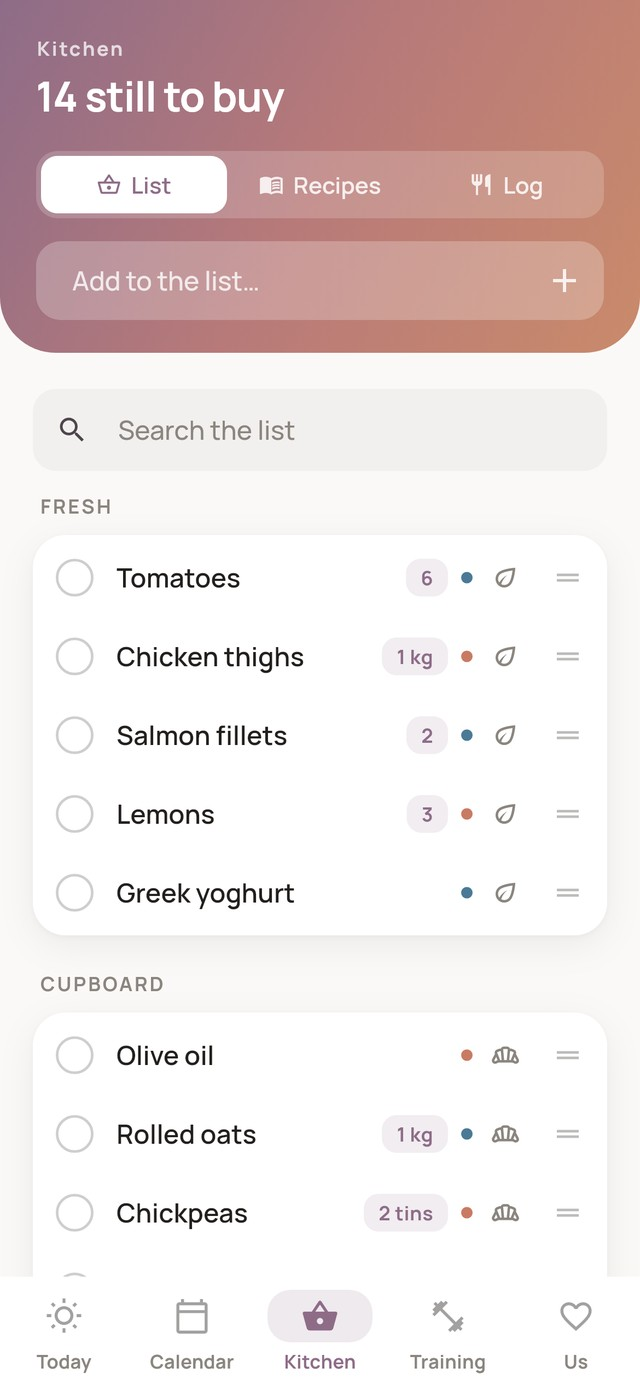
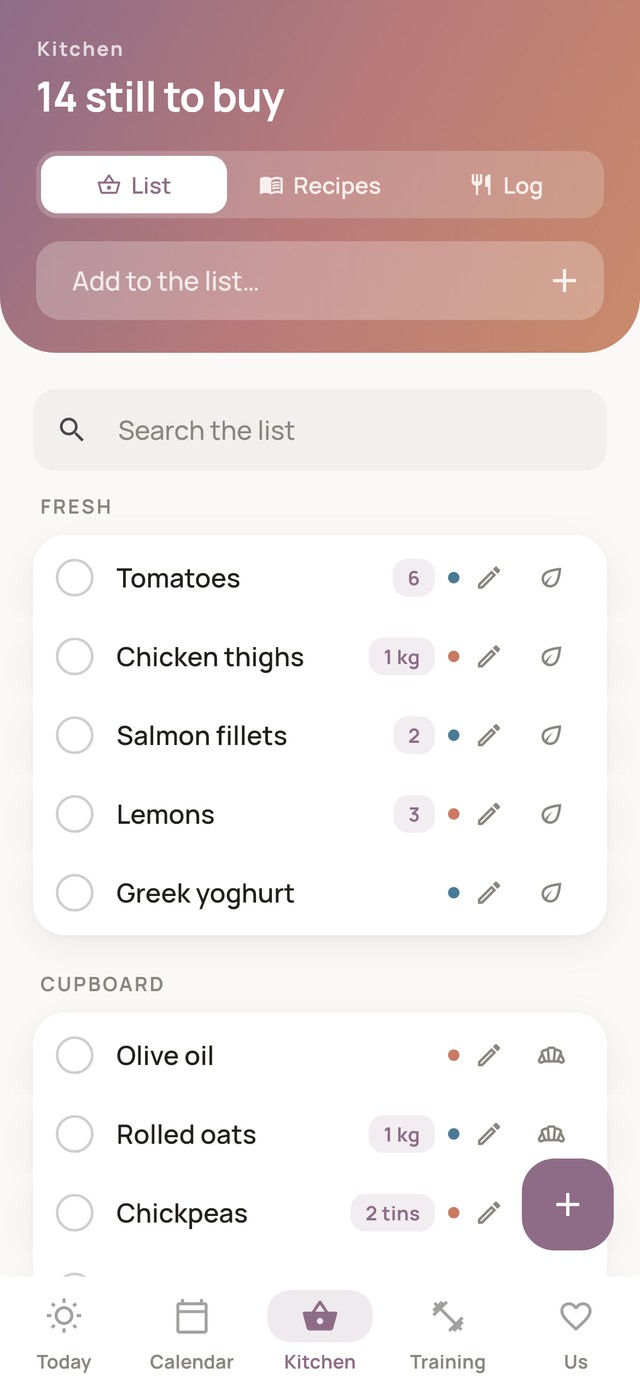
What's new, in Portuguese too
Both pages are now written by tool/whats_new.py in the app repo, from
CHANGELOG.md and CHANGELOG.pt.md, and the build pushes them here itself.
The seven Portuguese pages point at their own copy instead of the English
one, the sitemap carries it with an hreflang pair, and the shopping
screenshot is redrawn for the plus button and the row pencils.

diff --git a/pt/whats-new.html b/pt/whats-new.html
@@ -1,0 +1,162 @@
+<!doctype html>
+<html lang="pt-PT">
+<head>
+<meta charset="utf-8">
+<meta name="viewport" content="width=device-width, initial-scale=1">
+<script>
+(function () {
+  try {
+    if (localStorage.getItem('clovie-lang') === 'en') {
+      location.replace('../whats-new.html' + location.search);
+    }
+  } catch (e) {}
+})();
+</script>
+<title>Clovie &middot; O que mudou</title>
+<meta name="description" content="Tudo o que mudou na Clovie, do mais recente para trás.">
+<link rel="icon" type="image/png" href="../img/icon.png">
+<link rel="apple-touch-icon" href="../img/icon.png">
+<meta name="theme-color" content="#faf9f7" media="(prefers-color-scheme: light)">
+<meta name="theme-color" content="#201d1a" media="(prefers-color-scheme: dark)">
+<link rel="canonical" href="https://clovie.eu/pt/whats-new.html">
+<link rel="alternate" hreflang="en" href="https://clovie.eu/whats-new.html">
+<link rel="alternate" hreflang="pt-pt" href="https://clovie.eu/pt/whats-new.html">
+<link rel="alternate" hreflang="x-default" href="https://clovie.eu/whats-new.html">
+<meta property="og:type" content="website">
+<meta property="og:url" content="https://clovie.eu/pt/whats-new.html">
+<meta property="og:title" content="Clovie &middot; O que mudou">
+<meta property="og:description" content="Tudo o que mudou na Clovie, do mais recente para trás.">
+<meta property="og:image" content="https://clovie.eu/img/og.png">
+<meta property="og:image:width" content="1200">
+<meta property="og:image:height" content="630">
+<meta name="twitter:card" content="summary_large_image">
+<meta name="twitter:title" content="Clovie &middot; O que mudou">
+<meta name="twitter:description" content="Tudo o que mudou na Clovie, do mais recente para trás.">
+<meta name="twitter:image" content="https://clovie.eu/img/og.png">
+<link rel="stylesheet" href="../style.css">
+</head>
+<body class="doc">
+<a class="skip" href="#main">Ir para o conteúdo</a>
+
+<header class="site-header">
+  <a class="wordmark" href="index.html"><img src="../img/icon.png" alt="" width="40" height="40">Clovie</a>
+  <nav aria-label="Site">
+    <a href="index.html#features">O que faz</a>
+    <a href="index.html#download">Instalar</a>
+    <a href="support.html">Ajuda</a>
+    <a href="../whats-new.html" onclick="try{localStorage.setItem('clovie-lang','en')}catch(e){}">EN</a>
+  </nav>
+</header>
+
+<main id="main">
+  <h1>O que mudou</h1>
+  <p class="subtitle">Tudo o que mudou, versão a versão, a mais recente
+  primeiro. A mais recente é a 1.0.6 (build 106). Escrito à medida que cada mudança
+  foi feita, por isso nada aqui é um palpite.</p>
+
+  <h2>1.0.6 · 15 de agosto de 2026</h2>
+  <ul>
+    <li><strong>Novo</strong>: A lista de compras passa a ter um botão mais, em baixo à direita, onde o ginásio, o calendário, as receitas, a balança e o registo de refeições já têm o deles. Leva a lista de volta ao início, até à caixa onde se escreve, e deixa lá o cursor.</li>
+    <li><strong>Novo</strong>: Cada linha da lista de compras tem um lápis. Uma letra trocada obrigava a deitar a linha fora e a escrevê-la outra vez.</li>
+    <li><strong>Novo</strong>: Limpar o que já foi comprado da lista pode ser desfeito. Diz quantas linhas saíram e oferece Anular durante seis segundos, e todas voltam marcadas, com o nome de quem as marcou.</li>
+    <li><strong>Novo</strong>: Uma refeição registada pode ser corrigida. Tocar na linha reabre a quantidade e a refeição, em vez de a apagar e escolher o alimento de novo.</li>
+    <li><strong>Novo</strong>: Um alimento guardado na lista da casa pode ser corrigido ou removido; o caminho para lá está agora ao lado do nome. Até aqui só lá chegava quem soubesse que faltava.</li>
+    <li><strong>Novo</strong>: Qual dos dois é este telemóvel pode ser mudado depois da configuração inicial, na página pessoal. Tocar no lado errado no início punha todos os treinos, refeições e compras à conta da outra pessoa, para sempre.</li>
+    <li><strong>Melhor</strong>: Todas as listas da app se reordenam da mesma maneira: manter o dedo numa linha e depois arrastá-la. As barrinhas de arrastar desapareceram da lista de compras e do editor de receitas, onde eram o único caminho e nada o dizia.</li>
+    <li><strong>Melhor</strong>: Uma coisa muda de corredor com o dedo. Mantém a linha premida e arrasta-a para baixo, passando o nome de um corredor; o sítio onde a largas decide o corredor e o lugar dentro dele.</li>
+    <li><strong>Melhor</strong>: Marcar uma coisa na lista de compras deixa-a na lista, riscada, em vez de a tirar de lá.</li>
+    <li><strong>Melhor</strong>: Já não há nada escondido atrás de manter o dedo numa linha. Uma rotina muda de nome pelo lápis ao lado, e uma mensagem é retirada com o mesmo deslizar que apaga uma linha em todo o resto da app.</li>
+    <li><strong>Melhor</strong>: O editor de exercícios e o de alimentos perguntam antes de deitar fora o que estava meio escrito, como a receita, a rotina e o evento já faziam.</li>
+    <li><strong>Melhor</strong>: O editor de receitas olha para o formulário inteiro, e não só para o título, os ingredientes e os passos. Uma descrição, os tempos, o número de pessoas e as etiquetas já não desaparecem sem uma palavra.</li>
+    <li><strong>Melhor</strong>: O que aí vem, no ecrã inicial, passa a dizer a que horas é, e uma viagem que parte às seis da tarde mostra a hora por baixo dos dias que ocupa.</li>
+    <li><strong>Melhor</strong>: Uma refeição marcada a partir de uma receita, e um evento copiado do calendário do próprio telemóvel, chegam com o mesmo lembrete que o formulário lhes teria posto.</li>
+    <li><strong>Corrigido</strong>: O ginásio diz porque é que uma série não foi guardada. Carregar em Adicionar com a caixa das repetições vazia não fazia nada e não dizia nada, e um peso que não fosse um número era guardado como uma série feita com a barra vazia.</li>
+    <li><strong>Corrigido</strong>: O lembrete de um evento de dia inteiro é lido tal como foi escolhido, "Manhã anterior" em vez de "15 horas antes".</li>
+    <li><strong>Corrigido</strong>: Procurar um alimento sem rede passa a dizer que não foi possível chegar à base de dados, em vez de dizer que não encontrou nada. O leitor de códigos de barras diz o mesmo.</li>
+  </ul>
+  <h2>1.0.5 · 12 e 13 de agosto de 2026</h2>
+  <ul>
+    <li><strong>Novo</strong>: Um calendário do telemóvel pode ser partilhado por inteiro. Em "Calendários do telemóvel", no separador Nós, cada calendário mostrado tem um segundo interruptor que põe os seus eventos no outro telemóvel, de trinta dias atrás a quatrocentos à frente, e desligá-lo leva-os de volta. Nunca se escreve nada no calendário do próprio telemóvel.</li>
+    <li><strong>Novo</strong>: Um evento do calendário do telemóvel pode ser copiado para o calendário partilhado com um toque, "Pôr no nosso calendário". Assim que a cópia existe o botão desliga-se, para que um segundo toque não duplique o plano.</li>
+    <li><strong>Melhor</strong>: Todas as mensagens de erro seguem agora a língua do telemóvel. Num telemóvel em português, "Could not save" passa a ler-se "Não deu para guardar. Tenta outra vez.", e o resto dos avisos fez a mesma viagem.</li>
+    <li><strong>Melhor</strong>: O botão Voltar faz o que o Android promete. Voltar leva primeiro ao Início e só sai da app a partir do Início, e o deslizar da margem mostra o ecrã de trás antes de confirmar.</li>
+    <li><strong>Melhor</strong>: Marcar um artigo na lista de compras, guardar uma série, terminar um deslizar que apaga e um novo recorde dão a pequena vibração habitual, respeitando a definição de vibração do próprio telemóvel.</li>
+    <li><strong>Melhor</strong>: O bloco às riscas de testes no separador Nós desapareceu; as ferramentas de dados de exemplo passam a existir só nas versões de desenvolvimento.</li>
+    <li><strong>Corrigido</strong>: Um evento criado no Google Calendar aparece assim que se volta à Clovie, em vez de esperar que a app seja reaberta.</li>
+    <li><strong>Corrigido</strong>: Desligar a permissão de notificações já não apaga os lembretes agendados. Ficam onde estavam, calados, e voltam a tocar quando a permissão voltar.</li>
+    <li><strong>Corrigido</strong>: As sugestões de "Costumas comprar" já não aprendem com os dados de exemplo; só o que vocês marcam ensina a lista.</li>
+    <li><strong>Corrigido</strong>: O registo de refeições deixado aberto durante a noite acorda no dia novo, em vez de ficar preso a ontem.</li>
+    <li><strong>Corrigido</strong>: Um código de emparelhamento que ficou velho corrige-se sozinho no momento em que o ecrã da conta o mostra.</li>
+    <li><strong>Corrigido</strong>: Nos tamanhos de letra maiores, o cartão do ciclo dobra a janela fértil que passa para o mês seguinte em vez de a cortar.</li>
+  </ul>
+  <h2>1.0.4 · 7 e 8 de agosto de 2026</h2>
+  <ul>
+    <li><strong>Novo</strong>: O teu melhor fica marcado com uma estrela, na tua cor: na melhor série de um exercício, na série que acabou de a bater, no dia de onde veio e no treino onde aconteceu.</li>
+    <li><strong>Novo</strong>: Um evento novo já vem com um lembrete, meia hora antes, ou às nove da manhã anterior se for de dia inteiro. Qualquer evento pode continuar a receber outro, ou nenhum.</li>
+    <li><strong>Novo</strong>: O separador Nós tem uma secção de Notificações: lembretes de eventos, as duas horas por omissão, o lembrete do período e o botão da permissão do Android. Cada interruptor ali pertence só àquele telemóvel.</li>
+    <li><strong>Novo</strong>: Quem regista um ciclo recebe um aviso discreto às oito da tarde do dia anterior ao período esperado, depois de três ciclos registados. É calculado no próprio telemóvel, por isso não sai nada de novo dele.</li>
+    <li><strong>Novo</strong>: As receitas podem ser filtradas pelo tempo que levam, menos de vinte minutos ou menos de quarenta e cinco, a partir dos tempos de preparação e de cozedura que já têm.</li>
+    <li><strong>Novo</strong>: Um dedo pousado no anel do ciclo lê-o dia a dia.</li>
+    <li><strong>Novo</strong>: Os pesos podem ser lidos em libras. É uma definição de cada telemóvel, por isso um de vocês pode ler libras enquanto o outro lê quilos.</li>
+    <li><strong>Melhor</strong>: Uma série fica guardada no momento em que se carrega em guardar, por isso sair, ficar sem bateria ou o Android fechar a app não custa nada. Alguém já perdeu um treino inteiro assim, e foi isso que começou tudo.</li>
+    <li><strong>Melhor</strong>: Começar um treino, corrigir um treino antigo e construir uma rotina, uma receita ou um evento são páginas inteiras agora, e sair com alguma coisa por acabar pergunta primeiro.</li>
+    <li><strong>Melhor</strong>: Adicionar um exercício começa pelos grupos musculares, com uma pesquisa que atravessa todos; cada exercício tem a sua página, que guarda uma série de cada vez, com o histórico e o gráfico ao lado.</li>
+    <li><strong>Melhor</strong>: Qualquer exercício pode ser renomeado a partir de um lápis visível, mantendo o histórico e o gráfico, e o nome novo aparece nos dois telemóveis.</li>
+    <li><strong>Melhor</strong>: Qualquer um de vocês pode registar um ciclo, ou os dois, ou nenhum. O ciclo do outro só se vê do teu lado, não se muda, e nunca aparece no teu ecrã inicial.</li>
+    <li><strong>Melhor</strong>: O tema, o destaque, as cores, a língua e os confettis passam a ser de cada telemóvel; só os nomes, as alcunhas, as cores e os pronomes que definem um para o outro é que são partilhados.</li>
+    <li><strong>Melhor</strong>: A lista de licenças passa a incluir a Manrope, a letra da app.</li>
+    <li><strong>Corrigido</strong>: Um período deixa de dizer "A acontecer" quando os seus dias acabam.</li>
+    <li><strong>Corrigido</strong>: O calendário e os lembretes usam sempre o teu próprio período, e nunca uma mistura dos dois.</li>
+    <li><strong>Corrigido</strong>: A lista de compras mostra tantas coisas como antes; uma linha mais alta tinha empurrado quatro de catorze artigos para fora do fundo do ecrã.</li>
+    <li><strong>Corrigido</strong>: A linha do lembrete de um evento de dia inteiro já não transborda; as escolhas leem-se "Manhã anterior" e "Noite anterior".</li>
+  </ul>
+  <h2>1.0.3 · 6 de agosto de 2026</h2>
+  <ul>
+    <li><strong>Novo</strong>: Os gráficos do peso, do exercício e do progresso podem ser tocados ou arrastados para ler o valor e a data exatos por trás de cada ponto.</li>
+    <li><strong>Melhor</strong>: Um código de convite passa a expirar ao fim de algum tempo, para que um código antigo partilhado por engano não possa ser usado muito mais tarde.</li>
+    <li><strong>Corrigido</strong>: A contagem de dias juntos já não desce abaixo de zero quando a data de início fica no futuro.</li>
+    <li><strong>Corrigido</strong>: Entrar numa casa já não pode pôr os dois do mesmo lado; é detetado e corrigido automaticamente.</li>
+    <li><strong>Corrigido</strong>: Os perfis e as preferências partilhadas sincronizam como deve ser entre telemóveis, em vez de a mudança de um apagar a do outro.</li>
+    <li><strong>Corrigido</strong>: Dois telemóveis em fusos horários diferentes já não podem discordar sobre qual de duas mudanças é a mais recente.</li>
+  </ul>
+  <h2>1.0.1 · 28 de julho a 1 de agosto de 2026</h2>
+  <ul>
+    <li><strong>Novo</strong>: A lista de compras dá sugestões enquanto se escreve, ordenadas pelo que já compraram, e ganha uma caixa de pesquisa assim que passa de seis artigos.</li>
+    <li><strong>Novo</strong>: Registar uma refeição passa a ter um botão de leitura que preenche o produto a partir do código de barras, e a pesquisa de alimentos procura no Open Food Facts além dos alimentos guardados por vocês.</li>
+    <li><strong>Novo</strong>: Um artigo da lista de compras pode ser arrastado dentro do seu corredor ou mudado de corredor com um toque longo, e a ordem fica.</li>
+    <li><strong>Novo</strong>: Um exercício próprio pode ser criado a partir do seletor, com o seu grupo muscular e equipamento; mudar-lhe o nome mais tarde mantém o histórico e os recordes.</li>
+    <li><strong>Novo</strong>: Os ingredientes, os passos e os exercícios reordenam-se arrastando as linhas, como a lista de compras já fazia.</li>
+    <li><strong>Novo</strong>: Cada pessoa escolhe como é tratada na app: ele, ela ou uma forma neutra.</li>
+    <li><strong>Novo</strong>: As contas podem ser eliminadas de vez em Conta partilhada, dentro de Nós, e há três cores de destaque novas e um tema Doce.</li>
+    <li><strong>Novo</strong>: Partilhar um convite envia um link a sério, que abre a Clovie no outro telemóvel já com o código preenchido.</li>
+    <li><strong>Novo</strong>: Há um jogo escondido algures na app, e julho ensinou-lhe som, velocidade e boas maneiras.</li>
+    <li><strong>Melhor</strong>: O ecrã do ginásio são cinco páginas, Progresso, Resumo, Rotinas, Histórico e Recordes, e o deslizar funciona a partir de qualquer ponto da página.</li>
+    <li><strong>Melhor</strong>: O registo do ciclo é pessoal de quem o faz. O ciclo do outro pode ser visto, não mudado, e se registas um ou não é perguntado uma vez no início e mudável na tua própria página.</li>
+    <li><strong>Melhor</strong>: Cada lado só pode mudar o seu próprio nome; as alcunhas continuam a poder ser mudadas por qualquer um dos telemóveis.</li>
+    <li><strong>Melhor</strong>: As cores, as etiquetas, os títulos das linhas e as setas alinham-se da mesma maneira no Treino, na Cozinha, no Hoje e na lista de compras.</li>
+    <li><strong>Melhor</strong>: O modo de cozinhar usa o número de pessoas para que a receita foi ajustada, e "Começar a cozinhar" fica logo por baixo desse controlo.</li>
+    <li><strong>Melhor</strong>: As mensagens novas ficam marcadas até a conversa ser aberta.</li>
+    <li><strong>Melhor</strong>: A pesquisa de exercícios encontra um nome com ou sem acento, em qualquer das duas línguas.</li>
+    <li><strong>Corrigido</strong>: Adicionar um artigo que já está na lista de compras passa a atualizar a linha existente em vez de a escrever duas vezes.</li>
+    <li><strong>Corrigido</strong>: O calendário sombreia um período em curso durante o tempo que os teus períodos costumam durar, e acerta-se sozinho com o dia de hoje depois da meia-noite.</li>
+    <li><strong>Corrigido</strong>: Os números dos dias no maior tamanho de letra já não ficam cortados, em nenhuma vista do calendário.</li>
+    <li><strong>Corrigido</strong>: Um período registado com uma data futura já não deita abaixo a janela de edição.</li>
+    <li><strong>Corrigido</strong>: Uma gravação interrompida por falta de rede volta a tentar sozinha, em segundo plano.</li>
+    <li><strong>Corrigido</strong>: As regras de quem pode mudar o que na casa partilhada ficaram mais apertadas. Para o uso normal não muda nada.</li>
+  </ul>
+</main>
+
+<footer class="site-footer">
+  <nav aria-label="Mais">
+    <a href="index.html">Início</a>
+    <a href="support.html">Ajuda</a>
+    <a href="whats-new.html">O que mudou</a>
+    <a href="privacy.html">Privacidade</a>
+    <a href="terms.html">Termos</a>
+    <a href="testers.html">Experimentar já</a>
+    <a href="../whats-new.html" onclick="try{localStorage.setItem('clovie-lang','en')}catch(e){}">EN</a>
+  </nav>
+  <p class="colophon">&copy; 2026 Clovie &middot; <a href="mailto:hello@clovie.eu">hello@clovie.eu</a></p>
+</footer>
+</body>
+</html>

diff --git a/whats-new.html b/whats-new.html
@@ -3,6 +3,16 @@
 <head>
 <meta charset="utf-8">
 <meta name="viewport" content="width=device-width, initial-scale=1">
+<script>
+(function () {
+  try {
+    if (localStorage.getItem('clovie-lang') !== 'en' &&
+        /^pt\b/i.test(navigator.language || '')) {
+      location.replace('pt/whats-new.html' + location.search);
+    }
+  } catch (e) {}
+})();
+</script>
 <title>Clovie &middot; What's new</title>
 <meta name="description" content="Everything that changed in Clovie, newest first.">
 <link rel="icon" type="image/png" href="img/icon.png">
@@ -10,6 +20,9 @@
 <meta name="theme-color" content="#faf9f7" media="(prefers-color-scheme: light)">
 <meta name="theme-color" content="#201d1a" media="(prefers-color-scheme: dark)">
 <link rel="canonical" href="https://clovie.eu/whats-new.html">
+<link rel="alternate" hreflang="en" href="https://clovie.eu/whats-new.html">
+<link rel="alternate" hreflang="pt-pt" href="https://clovie.eu/pt/whats-new.html">
+<link rel="alternate" hreflang="x-default" href="https://clovie.eu/whats-new.html">
 <meta property="og:type" content="website">
 <meta property="og:url" content="https://clovie.eu/whats-new.html">
 <meta property="og:title" content="Clovie &middot; What's new">
@@ -32,7 +45,7 @@
     <a href="index.html#features">What it does</a>
     <a href="index.html#download">Get it</a>
     <a href="support.html">Help</a>
-    <a href="pt/index.html" onclick="try{localStorage.setItem('clovie-lang','pt')}catch(e){}">PT</a>
+    <a href="pt/whats-new.html" onclick="try{localStorage.setItem('clovie-lang','pt')}catch(e){}">PT</a>
   </nav>
 </header>
 
@@ -40,7 +53,7 @@
   <h1>What's new</h1>
   <p class="subtitle">Everything that changed, version by version, newest
   first. The newest build is 1.0.6 (build 105). Written as each change was made, so
-  nothing here is a guess, and only in English for now.</p>
+  nothing here is a guess.</p>
 
   <h2>1.0.6 · 15 August 2026</h2>
   <ul>
@@ -142,7 +155,7 @@
     <a href="privacy.html">Privacy</a>
     <a href="terms.html">Terms</a>
     <a href="testers.html">Try it early</a>
-    <a href="pt/index.html" onclick="try{localStorage.setItem('clovie-lang','pt')}catch(e){}">PT</a>
+    <a href="pt/whats-new.html" onclick="try{localStorage.setItem('clovie-lang','pt')}catch(e){}">PT</a>
   </nav>
   <p class="colophon">&copy; 2026 Clovie &middot; <a href="mailto:hello@clovie.eu">hello@clovie.eu</a></p>
 </footer>

diff --git a/pt/index.html b/pt/index.html
@@ -162,7 +162,7 @@
     <h2>Instalar o Clovie</h2>
     <p>O Clovie está na Play Store em acesso antecipado. Só Android, para já.</p>
     <a class="btn" href="testers.html">Experimentar já</a>
-    <p class="cta-note">Três passos, uns dois minutos. <a href="../whats-new.html">O que traz</a>, em inglês.</p>
+    <p class="cta-note">Três passos, uns dois minutos. <a href="whats-new.html">O que traz</a>.</p>
   </section>
 
 </main>
@@ -171,7 +171,7 @@
   <nav aria-label="Mais">
     <a href="index.html">Início</a>
     <a href="support.html">Ajuda</a>
-    <a href="../whats-new.html">O que mudou</a>
+    <a href="whats-new.html">O que mudou</a>
     <a href="privacy.html">Privacidade</a>
     <a href="terms.html">Termos</a>
     <a href="testers.html">Experimentar já</a>

diff --git a/pt/terms.html b/pt/terms.html
@@ -110,7 +110,7 @@
   <h2>Alterações</h2>
   <p>Estes termos vão mudar à medida que a app muda. A data em baixo diz
   quando mudaram pela última vez, e tudo o que reduza o que podes fazer leva
-  uma nota em <a href="../whats-new.html">o que mudou</a> em vez de uma
+  uma nota em <a href="whats-new.html">o que mudou</a> em vez de uma
   alteração silenciosa.</p>
 
   <h2>A parte legal</h2>
@@ -129,7 +129,7 @@
   <nav aria-label="Mais">
     <a href="index.html">Início</a>
     <a href="support.html">Ajuda</a>
-    <a href="../whats-new.html">O que mudou</a>
+    <a href="whats-new.html">O que mudou</a>
     <a href="privacy.html">Privacidade</a>
     <a href="terms.html">Termos</a>
     <a href="testers.html">Experimentar já</a>

diff --git a/pt/delete-account.html b/pt/delete-account.html
@@ -122,7 +122,7 @@
   <nav aria-label="Mais">
     <a href="index.html">Início</a>
     <a href="support.html">Ajuda</a>
-    <a href="../whats-new.html">O que mudou</a>
+    <a href="whats-new.html">O que mudou</a>
     <a href="privacy.html">Privacidade</a>
     <a href="terms.html">Termos</a>
     <a href="testers.html">Experimentar já</a>

diff --git a/pt/privacy.html b/pt/privacy.html
@@ -170,7 +170,7 @@
   <nav aria-label="Mais">
     <a href="index.html">Início</a>
     <a href="support.html">Ajuda</a>
-    <a href="../whats-new.html">O que mudou</a>
+    <a href="whats-new.html">O que mudou</a>
     <a href="privacy.html">Privacidade</a>
     <a href="terms.html">Termos</a>
     <a href="testers.html">Experimentar já</a>

diff --git a/pt/support.html b/pt/support.html
@@ -126,7 +126,7 @@
   <nav aria-label="Mais">
     <a href="index.html">Início</a>
     <a href="support.html">Ajuda</a>
-    <a href="../whats-new.html">O que mudou</a>
+    <a href="whats-new.html">O que mudou</a>
     <a href="privacy.html">Privacidade</a>
     <a href="terms.html">Termos</a>
     <a href="testers.html">Experimentar já</a>

diff --git a/pt/join.html b/pt/join.html
@@ -70,7 +70,7 @@
   <nav aria-label="Mais">
     <a href="index.html">Início</a>
     <a href="support.html">Ajuda</a>
-    <a href="../whats-new.html">O que mudou</a>
+    <a href="whats-new.html">O que mudou</a>
     <a href="privacy.html">Privacidade</a>
     <a href="terms.html">Termos</a>
     <a href="testers.html">Experimentar já</a>

diff --git a/pt/testers.html b/pt/testers.html
@@ -89,7 +89,7 @@
   <nav aria-label="Mais">
     <a href="index.html">Início</a>
     <a href="support.html">Ajuda</a>
-    <a href="../whats-new.html">O que mudou</a>
+    <a href="whats-new.html">O que mudou</a>
     <a href="privacy.html">Privacidade</a>
     <a href="terms.html">Termos</a>
     <a href="testers.html">Experimentar já</a>
